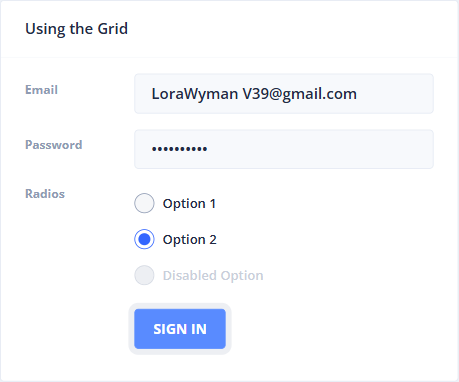
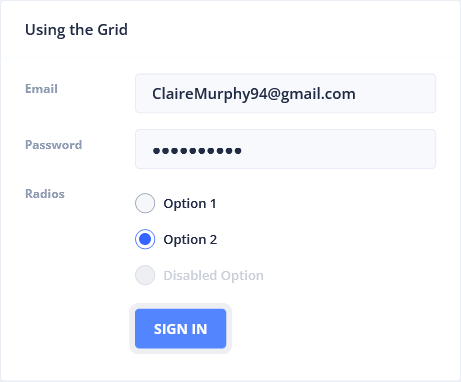
Environment variables

diff --git a/playwright.config.ts b/playwright.config.ts
@@ -1,17 +1,18 @@
 import { defineConfig, devices } from '@playwright/test';
+import type { TestOptions } from './test-options';
 
 /**
  * Read environment variables from file.
  * https://github.com/motdotla/dotenv
  */
-// import dotenv from 'dotenv';
-// import path from 'path';
-// dotenv.config({ path: path.resolve(__dirname, '.env') });
+import dotenv from 'dotenv';
+import path from 'path';
+dotenv.config({ path: path.resolve(__dirname, '.env') });
 
 /**
  * See https://playwright.dev/docs/test-configuration.
  */
-export default defineConfig({
+export default defineConfig<TestOptions>({
   //globalTimeout: 900000,
   //timeout: 540000,
   //expect: {
@@ -32,7 +33,8 @@ export default defineConfig({
   /* Shared settings for all the projects below. See https://playwright.dev/docs/api/class-testoptions. */
   use: {
     /* Base URL to use in actions like `await page.goto('/')`. */
-    // baseURL: 'http://127.0.0.1:3000',
+    baseURL: 'http://localhost:4200/',
+    globalsQaURL: 'https://www.globalsqa.com/demo-site/draganddrop/',
 
     /* Collect trace when retrying the failed test. See https://playwright.dev/docs/trace-viewer */
     headless: false,
@@ -47,6 +49,20 @@ export default defineConfig({
 
   /* Configure projects for major browsers */
   projects: [
+    // {
+    //   name: 'dev',
+    //   use: { 
+    //     ...devices['Desktop Chrome'],
+    //     baseURL: 'http://localhost/dev:4200/',
+    //   },
+    // },
+    // {
+    //   name: 'qa',
+    //   use: { 
+    //     ...devices['Desktop Chrome'],
+    //     baseURL: 'http://localhost/qa:4200/',
+    //   },
+    // },
     {
       name: 'chromium',
       use: { ...devices['Desktop Chrome'] },

diff --git a/tests/usePageObjects.spec.ts b/tests/usePageObjects.spec.ts
@@ -3,7 +3,7 @@ import {PageManager} from '../page-objects/pageManager';
 import {faker} from '@faker-js/faker';
 
 test.beforeEach(async({page}) => {
-    await page.goto('http://localhost:4200/');
+    await page.goto('/');
 });
 
 test('Navigate to forms page', async({page}) => {
@@ -27,7 +27,7 @@ test('submit using grid Form with credentials And Select Option', async({page}, 
     const email = `${randomFullName.replace(' ', '')}${faker.number.int(100)}@gmail.com`;
     
     await pageManager.navigateTo().formLayoutsPage();
-    await formLayoutsPage.submitUsingGridFormWithCredentialsAndSelectOption(email, 'mipassword', "Option 2");
+    await formLayoutsPage.submitUsingGridFormWithCredentialsAndSelectOption(email, process.env.PASSWORD+"", "Option 2");
     page.screenshot({path: 'screenshots/formLayoutsPage.png'});
     page.locator('nb-card').filter({hasText: "Using the Grid"}).screenshot({path: 'screenshots/form.png'});
     await page.waitForTimeout(3000)

diff --git a/tests/autoWaiting.spec.ts b/tests/autoWaiting.spec.ts
@@ -3,7 +3,8 @@ import {test, expect} from '@playwright/test';
 test.beforeEach(async ({page}, testInfo) => {
     // increse the time out for every test in this file in 2 seconds
     testInfo.setTimeout(testInfo.timeout + 2000);
-    await page.goto('http://www.uitestingplayground.com/ajax');
+    const url = process.env.URL+"";
+    await page.goto(url);
 });
 
 test('auto waiting', async({page}) => {

diff --git a/tests/dragAndDropWithFrames.spec.ts b/tests/dragAndDropWithFrames.spec.ts
@@ -1,7 +1,8 @@
-import {test, expect} from '@playwright/test';
+import {expect} from '@playwright/test';
+import {test} from '../test-options';
 
-test.beforeEach(async({page}) => {
-    await page.goto('https://www.globalsqa.com/demo-site/draganddrop/');
+test.beforeEach(async({page, globalsQaURL}) => {
+    await page.goto(globalsQaURL);
 });
 
 test('Drag & Drop with iFrames', async({page}) => {

diff --git a/tests/uiComponents.spec.ts b/tests/uiComponents.spec.ts
@@ -4,7 +4,7 @@ import {test, expect} from '@playwright/test';
 test.describe.configure({mode: 'parallel'});
 
 test.beforeEach(async({page}) => {
-    await page.goto('http://localhost:4200/');
+    await page.goto('/');
 });
 
 test.describe('Form Layouts page', ()=>{

diff --git a/tests/firstTest.spec.ts b/tests/firstTest.spec.ts
@@ -1,7 +1,7 @@
 import {test, expect} from '@playwright/test';
     
 test.beforeEach(async ({page}) => {
-    await page.goto('http://localhost:4200/');
+    await page.goto('/');
 });
 
 test.describe('test suite Forms Layouts', () => {

diff --git a/test-options.ts b/test-options.ts
@@ -1,0 +1,11 @@
+import {test as base} from '@playwright/test';
+
+export type TestOptions = {
+    globalsQaURL: string
+}
+
+export const test = base.extend<TestOptions>({
+    globalsQaURL: [
+        '', {option: true}
+    ]
+});
